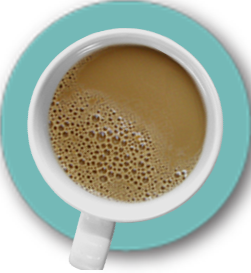
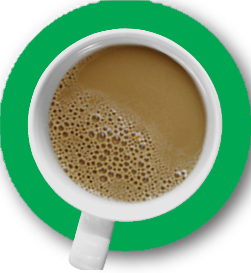
Updated mug, and median grade feedback

Changed region(s): [[0.0, 0.0, 1.0, 0.9377]]

diff --git a/src/server/opinion/templates/mobile.html b/src/server/opinion/templates/mobile.html
@@ -336,7 +336,9 @@
           </div>  
 
           <center>   
-              <div style="padding-left: 20px;padding-right: 20px; padding-top: 10px; padding-bottom: 10px; text-align: left; letter-spacing: 2px;font-size: 15px;line-height: 18px;">{{ statement.statement }}</div>
+              <div style="padding-left: 20px;padding-right: 20px; padding-top: 10px; padding-bottom: 5px; text-align: left; letter-spacing: 2px;font-size: 15px;line-height: 18px;">{{ statement.statement }}</div>
+
+              <div class="median-grade-{{statement.id}}" style="font-size: 16px;display: none;letter-spacing: 2px;color: #66FFFF;"></div>
 
               <div style="width: 100%;">
                 <img class='endsliders-back-btn' style="width: 45px !important; display: inline-block; position: relative; top: -120px;" id="back-{{statement.id}}" src="{{url_root}}/media/mobile/img/cafe/Skip_V1.png">
@@ -349,10 +351,6 @@
                   
               <div style="clear: both;"></div>
               <a href="#" class="skip-button-{{statement.id}} skip-btn" id="next-{{statement.id}}" style="color: #ffffff;font-size: 16px;position:relative;top: -40px;left: 100px;">Skip</a>
-              <div class="median-grade-{{statement.id}}" style="font-size: 16px;display: none;letter-spacing: 2px;"></div><br/>
-
-              
-
           </center>
 
       </div>
@@ -762,9 +760,8 @@
       <div class='dialog-text-style-noflow small-left-padding'>
           <div class="basic-header">Help</div>
           The CRC allows visitors to grade issues facing California.
-          Drag the slider handles to assign grades to these 6 issues facing California (click the skip button for issues where you don't want to assign a grade.)
+          Presss the buttons to assign grades to these 6 issues facing California (click the skip button for issues where you don't want to assign a grade.)
           <br/><br/>
-          Click "Median Grade" at the top of the far right column to learn more about how this is determined.<br/><br/>
           <em>Q:</em> How can I learn more about the six issues we are grading?<br/>
           <em>A:</em> Here is an overview of each issue:<br/><br/>
 

diff --git a/src/client/media/mobile/js/crc-transparent-slider.js b/src/client/media/mobile/js/crc-transparent-slider.js
@@ -46,8 +46,9 @@ $(".slider-grade-bubble").on("click",function(e){
 	window.sliders[statement_id-1] = grade_to_score(classList[2].substring(7).replace("p","+"));
 	median = score_to_grade(100*medians[statement_id]);
 	rate.logUserEvent(11,'slider_set ' + statement_id + ' ' + window.sliders[statement_id-1]/100);
+
 	$(this).parent().children(".bubble-"+median.replace("+","p")).css("border","2px solid #66FFFF");
-	$(".median-grade-"+statement_id).html("Median Grade: " + median);
+	$(".median-grade-"+statement_id).html("Median grade so far: " + median);
 	$(".median-grade-"+statement_id).fadeIn(500);
 	$(".skip-button-"+statement_id).hide();
 	}
@@ -70,7 +71,8 @@ $(".slider-grade-bubble").on("touchstart",function(e){
 	rate.logUserEvent(11,'slider_set ' + statement_id-1 + ' ' + window.sliders[statement_id-1]/100);
 	median = score_to_grade(100*medians[statement_id]);
 	//alert(median);
-	$(".median-grade-"+statement_id).html("Median Grade: " + median);
+	$(this).parent().children(".bubble-"+median.replace("+","p")).css("border","2px solid #66FFFF");
+	$(".median-grade-"+statement_id).html("Median grade so far: " + median);
 	$(".median-grade-"+statement_id).fadeIn(500);
 	$(".skip-button-"+statement_id).hide();
 	}
